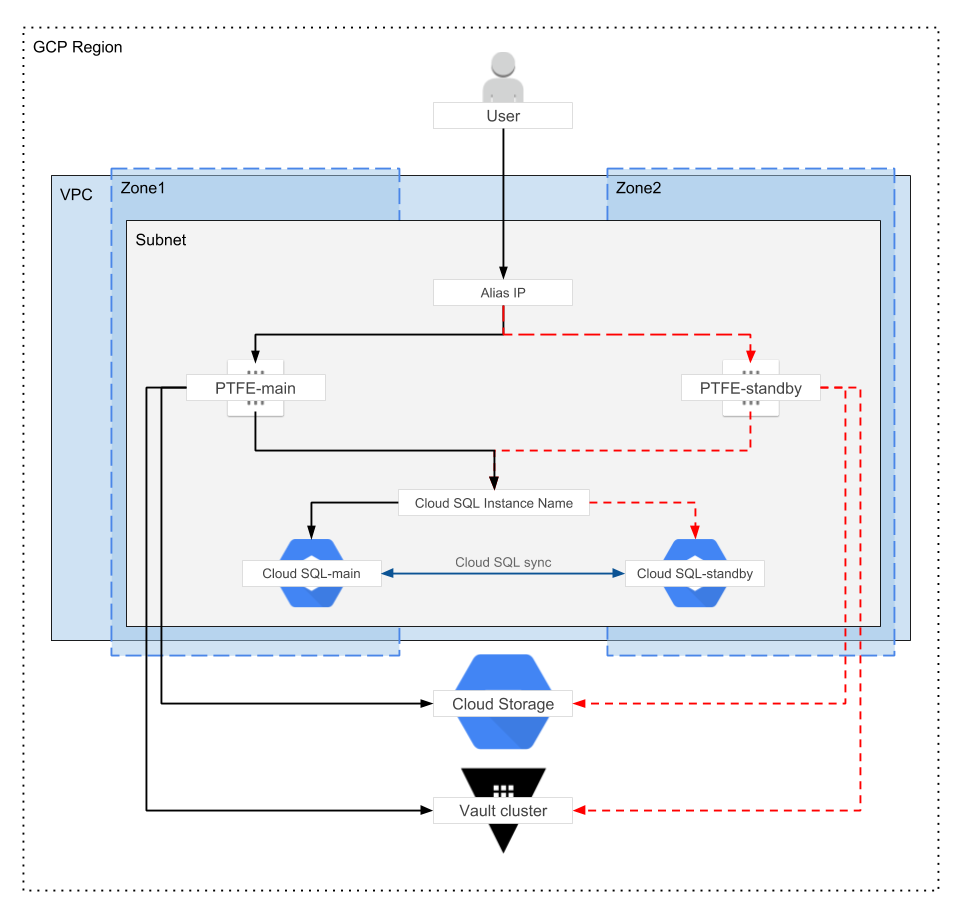
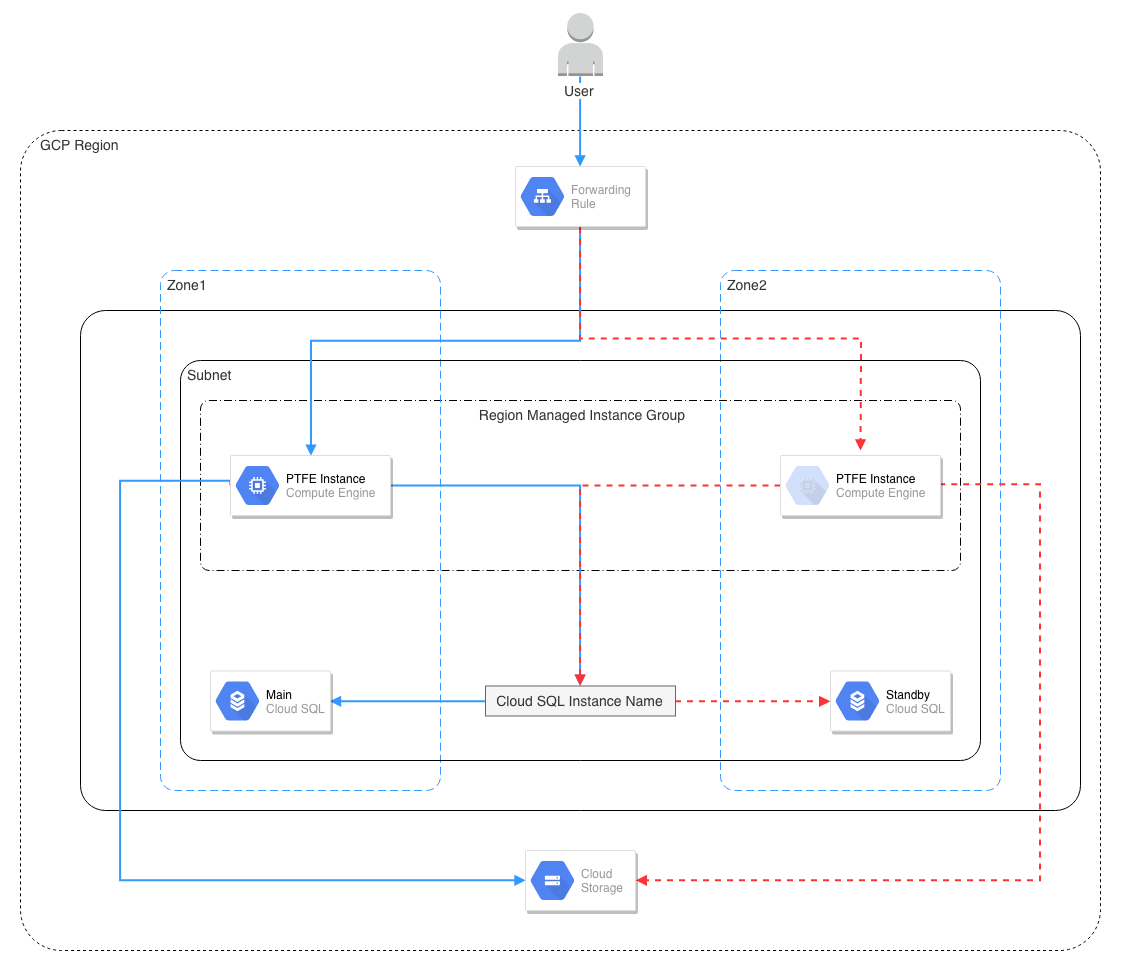
Update GCP RA and minor edits to AWS RA
- GCP RA now uses regional managed instance group (like AWS ASG)
- Minor edits to language in AWS RA

diff --git a/content/source/docs/enterprise/private/gcp-setup-guide.html.md b/content/source/docs/enterprise/private/gcp-setup-guide.html.md
@@ -31,14 +31,14 @@ Services_ operational mode.
 Depending on the chosen [operational
 mode](https://www.terraform.io/docs/enterprise/private/preflight-installer.html#operational-mode-decision),
 the infrastructure requirements for PTFE range from a single Cloud Compute VM instance
-for demo installations to multiple instances connected to Cloud SQL and for a
+for demo installations to multiple instances connected to Cloud SQL and Cloud Storage for a
 stateless production installation.
 
 The following table provides high-level server guidelines. Of particular
 note is the strong recommendation to avoid non-fixed performance CPUs,
 or “Shared-core machine types” in GCP terms, such as f1-series and g1-series instances.
 
-### PTFE Server (Compute Engine VM)
+### PTFE Server (Compute Engine VM via Regional Managed Instance Group)
 
 | Type        | CPU      | Memory       | Disk        | GCP Machine Types              |
 |-------------|----------|--------------|-------------|--------------------------------|
@@ -84,7 +84,7 @@ instances.
 Vault is used to encrypt all application data stored in the Cloud Storage bucket.  This
 allows for further [server-side
 encryption](https://cloud.google.com/storage/docs/encryption/)
-by Cloud Storage if required by your security policy.
+by Cloud Storage.
 
 ### Other Considerations
 
@@ -93,15 +93,15 @@ by Cloud Storage if required by your security policy.
 In order to successfully provision this reference architecture you must
 also be permitted to create the following GCP resources:
 
-- Project
+- [Project](https://cloud.google.com/resource-manager/docs/creating-managing-projects)
 - [VPC Network](https://cloud.google.com/vpc/docs/vpc)
-- Subnet
-- Firewall
+- [Subnet](https://cloud.google.com/vpc/docs/using-vpc)
+- [Firewall](https://cloud.google.com/vpc/docs/firewalls)
 - [Target Pool](https://cloud.google.com/load-balancing/docs/target-pools)
 - [Forwarding Rule](https://cloud.google.com/load-balancing/docs/forwarding-rules)
-- Compute Instance Template
-- Region Instance Group Manager
-- Cloud DNS (optional)
+- [Compute Instance Template](https://cloud.google.com/compute/docs/instance-templates/)
+- [Regional Managed Instance Group](https://cloud.google.com/compute/docs/instance-groups/distributing-instances-with-regional-instance-groups)
+- [Cloud DNS (optional)](https://cloud.google.com/dns/)
 
 #### Network
 
@@ -125,12 +125,6 @@ An SSL/TLS certificate signed by a public or private CA is required for secure c
 clients, VCS systems, and the PTFE application server. The certificate can be specified during the
 UI-based installation or in a configuration file used for an unattended installation.
 
-If a Classic or Application Load Balancer is used, SSL/TLS will be terminated there.
-In this configuration, the PTFE instances should still be configured to listen
-for incoming SSL/TLS connections.
-
-HashiCorp does not recommend the use of self-signed certificates.
-
 ## Infrastructure Diagram
 
 ![gcp-infrastructure-diagram](./assets/gcp-infrastructure-diagram.png)
@@ -139,26 +133,20 @@ The above diagram shows the infrastructure components at a high-level.
 
 ### Application Layer
 
-The Application Layer is composed of two PTFE servers (Compute Engine instances)
-running in different Zones and operating in a main/standby
-configuration. Traffic is routed only to *PTFE-main* via an Alias IP.
-Routing changes are typically managed by a human removing the Alias IP from *PTFE-main*
-and adding it to *PTFE-standby*.
+The Application Layer is composed of a Regional Managed Instance Group and an Instance Template
+providing an auto-recovery mechanism in the event of an instance or Zone failure.
 
 ### Storage Layer
 
-The Storage Layer is composed of multiple service endpoints (Cloud SQL, Cloud Storage,
-Vault) all configured with or benefiting from inherent resiliency
-provided by GCP (in the case of Cloud SQL and Cloud Storage) or resiliency provided by a
-well-architected deployment (in the case of Vault).
+The Storage Layer is composed of multiple service endpoints (Cloud SQL, Cloud Storage) all
+configured with or benefiting from inherent resiliency
+provided by GCP.
 
 #### Additional Information
 
 - [Cloud SQL high-availability](https://cloud.google.com/sql/docs/postgres/high-availability).
 
 - [Regional Cloud Storage](https://cloud.google.com/storage/docs/storage-classes).
-
-- [Highly available Vault deployments](https://www.vaultproject.io/guides/operations/vault-ha-consul.html)
 
 ## Infrastructure Provisioning
 
@@ -170,8 +158,8 @@ dependencies.
 
 ### Component Interaction
 
-The Alias IP routes all traffic to the *PTFE-main* instance which
-in turn handles all requests to the PTFE application.
+The Forwarding Rule routes all traffic to the *PTFE* instance, which is managed by
+a Regional Managed Instance Group with maximum and minimum instance counts set to one.
 
 The PTFE application is connected to the PostgreSQL database via the Cloud SQL
 endpoint and all database requests are routed via the Cloud SQL endpoint to the database instance.
@@ -180,14 +168,9 @@ The PTFE application is connected to object storage via the Cloud Storage endpoi
 for the defined bucket and all object storage requests are routed to the
 highly available infrastructure supporting Cloud Storage.
 
-The PTFE application is connected to the Vault cluster via the Vault
-cluster endpoint URL.
-
 ### Upgrades
 
-See [the Upgrades
-section](https://www.terraform.io/docs/enterprise/private/upgrades.html)
-of the documentation.
+See [the Upgrades section](./upgrades.html) of the documentation.
 
 ## High Availability
 
@@ -201,7 +184,7 @@ higher level of service continuity.
 
 #### Single Compute Engine Instance Failure
 
-In the event of the *PTFE-main* instance failing in a way that GCP can
+In the event of the *PTFE* instance failing in a way that GCP can
 observe, [Live Migration](https://cloud.google.com/compute/docs/instances/live-migration)
 is used to move the instance to new physical hardware automatically.
 In the event that Live Migration is not possible the instance will crash and be restarted
@@ -210,39 +193,30 @@ be started and service will resume.
 
 #### Zone Failure
 
-In the event of the Zone hosting the main instances (Compute Engine and Cloud SQL) failing, traffic must be routed to the standby instances to resume service.
+In the event of the Zone hosting the main instances (Compute Engine and Cloud SQL) failing,
+the Regional Managed Instance Group for the Compute VMs will automatically
+begin booting a new one in an operational Zone.
 
--   The Alias IP must be reconfigured to direct traffic to
-    the *PTFE-standby* instance. This can be managed manually or automated.
+- Cloud SQL automatically and transparently fails over to the standby zone.
+  The [GCP documentation provides more
+  detail](https://cloud.google.com/sql/docs/postgres/high-availability)
+  on the exact behaviour and expected impact.
 
--   Cloud SQL automatically and transparently fails over to the standby zone. 
-    The [GCP documentation provides more
-    detail](https://cloud.google.com/sql/docs/postgres/high-availability)
-    on the exact behaviour and expected impact.
-
--   Both Cloud Storage and Vault are resilient to Zone failure based
-    on their architecture.
+- Cloud Storage is resilient to Zone failure based on its architecture.
 
 See below for more detail on how each component handles Zone failure.
 
-##### PTFE Servers
+##### PTFE Server
 
-Through deployment of two Compute Engine instances in different Zones, the
-PTFE Reference Architecture is resilient to Zone failure. Should the
-*PTFE-main* server fail, it can be automatically recovered, or traffic can be
-routed to the *PTFE-standby* server to resume service when the failure is
-limited to the PTFE server layer.
+By utilizing a Regional Managed Instance Group, the PTFE instance automatically recovers
+in the event of any outage except for the loss of an entire region.
 
-With external services (PostgreSQL Database, Object Storage, Vault) in use,
+With external services (PostgreSQL Database, Object Storage) in use,
 there is still some application configuration data present on the PTFE server
 such as installation type, database connection settings, hostname. This data
-rarely changes. If the application configuration has not changed since
-installation, both *PTFE-main* and *PTFE-standby* will be using the same
-configuration and no action is required. If the configuration on *PTFE-main*
-changes you should [create a
-snapshot](https://www.terraform.io/docs/enterprise/private/automated-recovery.html#1-configure-snapshots)
-via the UI or CLI and recover this to *PTFE-standby* so both instances use the
-same configuration.
+rarely changes. If the configuration on *PTFE* changes you should update the
+Instance Template to include this updated configuration so that any newly
+launched Compute VM uses this new configuration.
 
 ##### PostgreSQL Database
 
@@ -266,14 +240,6 @@ From the GCP website:
 > Doing so gives you better performance for data-intensive computations, as opposed 
 > to storing your data in a multi-regional location. 
 > ([source](https://cloud.google.com/storage/docs/storage-classes))*
-
-##### Vault Cluster
-
-For the purposes of this guide, the external Vault cluster is expected
-to be deployed and configured in line with the [HashiCorp Vault Enterprise Reference
-Architecture](https://www.vaultproject.io/guides/operations/reference-architecture.html).
-This would provide high availability and disaster recovery support,
-minimising downtime in the event of an outage.
 
 ## Disaster Recovery
 
@@ -301,23 +267,21 @@ primary GCP Region hosting the PTFE application failing, the secondary
 GCP Region will require some configuration before traffic is directed to
 it along with some global services such as DNS.
 
--   [Cloud SQL cross-region read replicas](https://cloud.google.com/sql/docs/postgres/replication/manage-replicas) can be used in a warm standby architecture or [Cloud SQL database backups](https://cloud.google.com/sql/docs/postgres/backup-recovery/restoring) can be used in a cold standby architecture.
+- [Cloud SQL cross-region read replicas](https://cloud.google.com/sql/docs/postgres/replication/manage-replicas) can be used in a warm standby architecture or [Cloud SQL database backups](https://cloud.google.com/sql/docs/postgres/backup-recovery/restoring) can be used in a cold standby architecture.
 
--   [Multi-Regional Cloud Storage replication](https://cloud.google.com/storage/docs/storage-classes#multi-regional) must be configured so the object storage component of the Storage Layer is available in multiple GCP Regions.
+- [Multi-Regional Cloud Storage replication](https://cloud.google.com/storage/docs/storage-classes#multi-regional) must be configured so the object storage component of the Storage Layer is available in multiple GCP Regions.
 
--   [Vault Disaster Recovery (DR) Replication](https://www.vaultproject.io/docs/enterprise/replication/index.html#performance-replication-and-disaster-recovery-dr-replication) must be configured for a Vault cluster in the secondary GCP Region.
-
--   DNS must be redirected to the Alias IP acting as the entry point for the infrastructure deployed in the secondary GCP Region.
+- DNS must be redirected to the Forwarding Rule acting as the entry point for the infrastructure deployed in the secondary GCP Region.
 
 #### Data Corruption
 
 The PTFE application architecture relies on multiple service endpoints
-(Cloud SQL, Cloud Storage, Vault) all providing their own backup and recovery
+(Cloud SQL, Cloud Storage) all providing their own backup and recovery
 functionality to support a low MTTR in the event of data corruption.
 
 ##### PTFE Servers
 
-With external services (PostgreSQL Database, Object Storage, Vault) in
+With external services (PostgreSQL Database, Object Storage) in
 use, there is still some application configuration data present on the
 PTFE server such as installation type, database connection settings,
 hostname. This data rarely changes. We recommend [configuring automated
@@ -345,14 +309,8 @@ application to a “backup bucket” in Cloud Storage that runs at regular inter
 The [Nearline Storage](https://cloud.google.com/storage/docs/storage-classes#nearline) storage class
 is identified as a solution targeted more for DR backups. From the GCP website:
 
-> *Nearline Storage is ideal for data you plan to read or modify on average once a month or less. 
-> For example, if you want to continuously add files to Cloud Storage and plan to access those 
+> *Nearline Storage is ideal for data you plan to read or modify on average once a month or less.
+> For example, if you want to continuously add files to Cloud Storage and plan to access those
 > files once a month for analysis, Nearline Storage is a great choice.
-> Nearline Storage is also appropriate for data backup, disaster recovery, and archival storage. ([source](https://cloud.google.com/storage/docs/storage-classes#nearline))*
-
-##### Vault Cluster
-
-The recommended Vault Reference Architecture uses Consul for storage.
-Consul provides the underlying [snapshot
-functionality](https://www.consul.io/docs/commands/snapshot.html)
-to support Vault backup and recovery.
+> Nearline Storage is also appropriate for data backup, disaster recovery, and archival storage.
+([source](https://cloud.google.com/storage/docs/storage-classes#nearline))*

diff --git a/content/source/docs/enterprise/private/aws-setup-guide.html.md b/content/source/docs/enterprise/private/aws-setup-guide.html.md
@@ -159,9 +159,8 @@ the private key of a public ACM certificate on your PTFE instance.
 
 ### Application Layer
 
-The Application Layer is composed of two PTFE servers (EC2 instances)
-running in different Availability Zones and operating in a main/standby
-configuration. Traffic is routed only to *PTFE-main* via one of the above infrastructure options. 
+The Application Layer is composed of an Auto Scaling Group and a Launch Configuration
+providing an auto-recovery mechanism in the event of an instance or Availablity Zone failure.
 
 ### Storage Layer
 
@@ -194,7 +193,7 @@ as well.
 ### Component Interaction
 
 The Load Balancer routes all traffic to the *PTFE* instance, which is managed by
-an Auto Scaling Group with maximum and minimum instance counts set to 1.
+an Auto Scaling Group with maximum and minimum instance counts set to one.
 
 The PTFE application is connected to the PostgreSQL database via the RDS
 Multi-AZ endpoint and all database requests are routed via the RDS
@@ -240,8 +239,7 @@ begin booting a new one in an operational AZ.
 
 - S3 is resilient to Availability Zone failure based on its architecture.
 
-See below for more detail on how each component handles Availability
-Zone failure.
+See below for more detail on how each component handles Availability Zone failure.
 
 ##### PTFE Server
 
